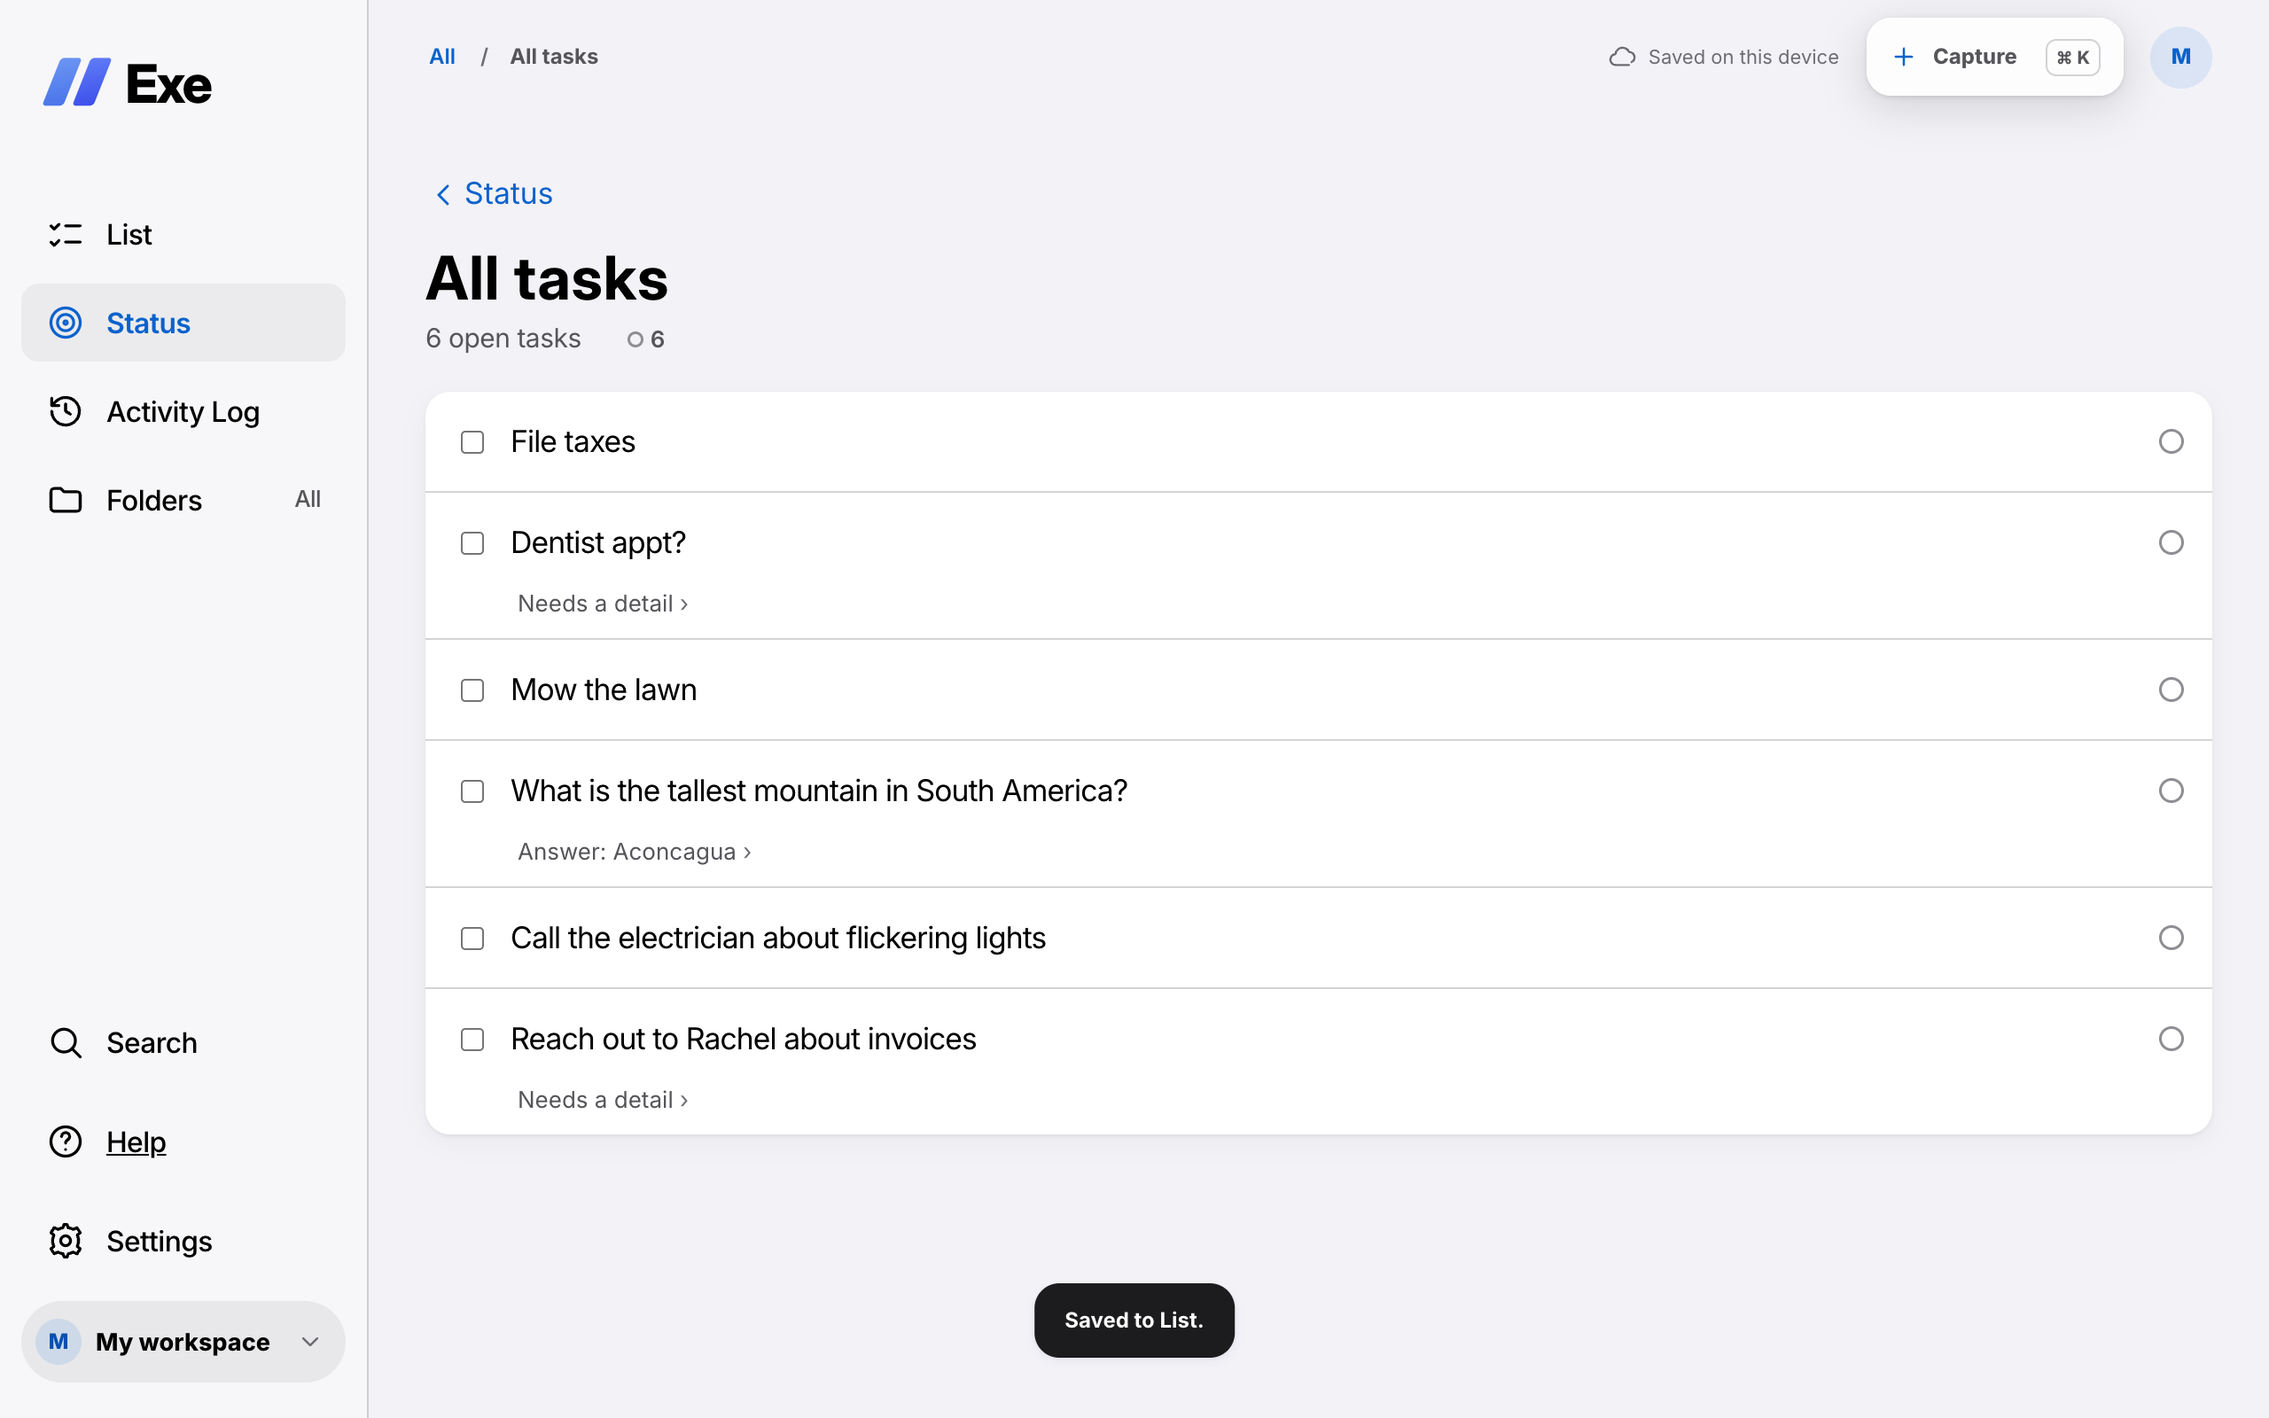
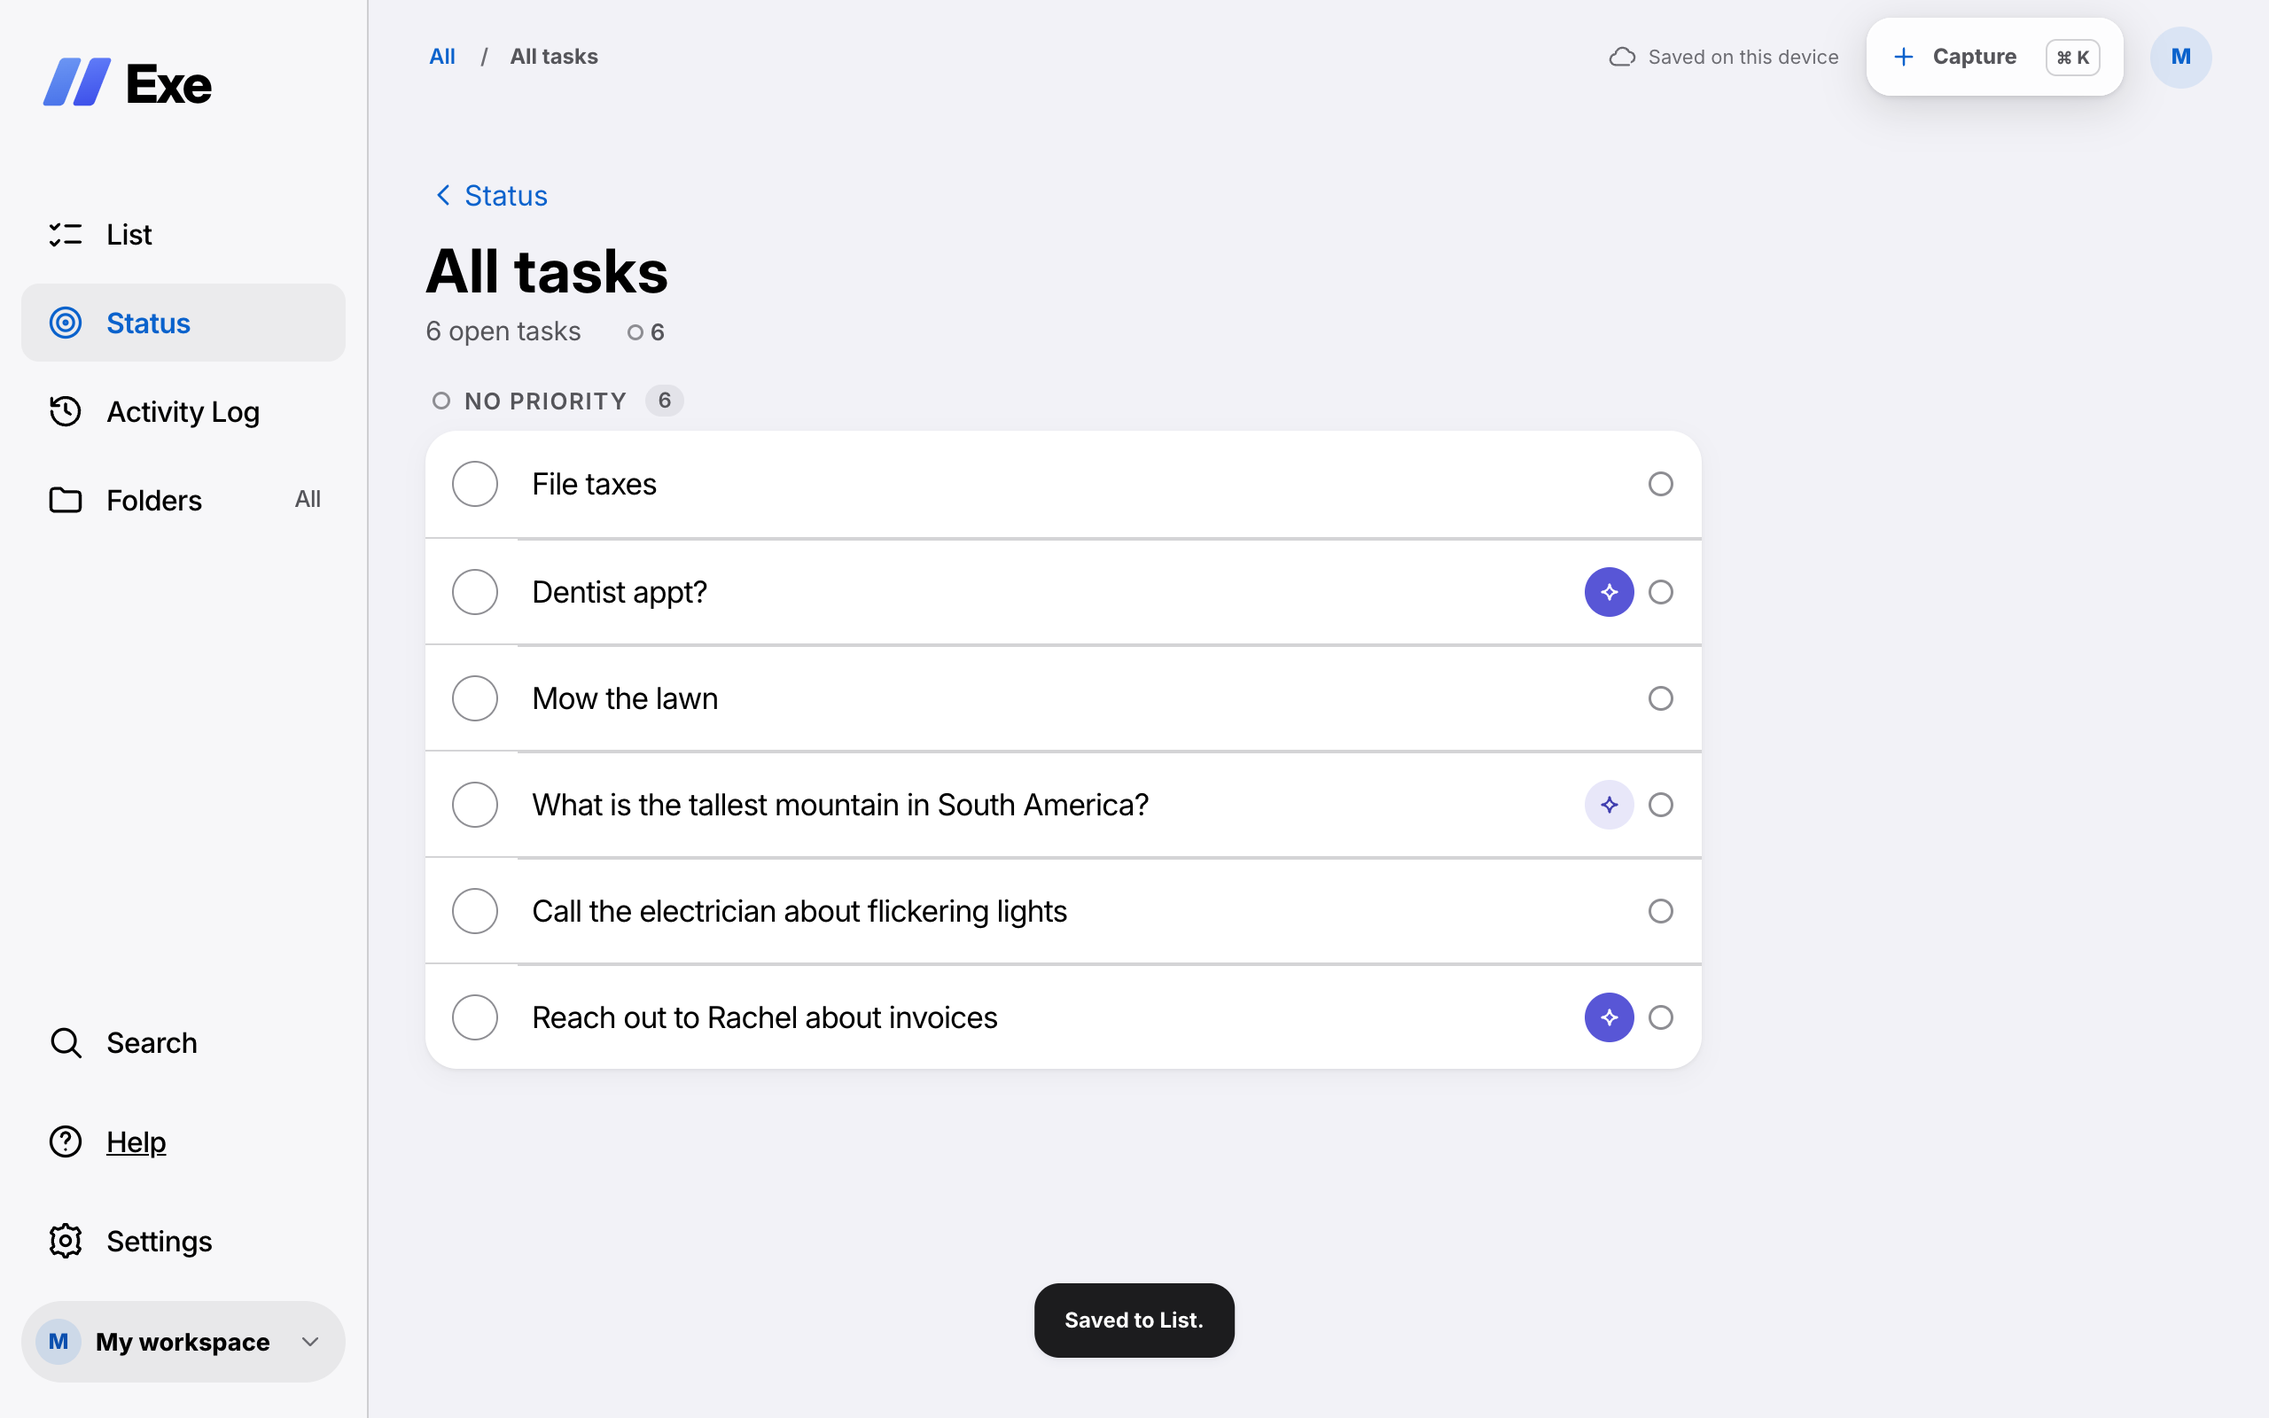
All tasks: sleek redesign (round checkboxes, priority sections, AI mark), 720px width on desktop

diff --git a/web/screens/TaskScreen.tsx b/web/screens/TaskScreen.tsx
@@ -10,21 +10,21 @@ import { PriorityCounts, PriorityDot } from '../ui/PriorityDot';
 
 const RANK: Record<string, number> = { high: 0, medium: 1, low: 2 };
 
-/** One task: its checkbox, its text (tap to open the assistant for it), its priority dot, and at most one quiet line when there is a real result. */
+/** One task: a round checkbox, its text (tap to open the assistant for it), a small colored mark when the AI has interacted with it, and its priority dot. */
 function TaskRow({ t, labels, toggle }: { t: MissionTask; labels: boolean; toggle: (t: MissionTask, on: boolean) => void }) {
   const { openEntry } = useApp();
   const st = useEntryState(t.captureId ?? '', t.text), line = t.captureId ? statusLine(st) : null, open = () => t.captureId && openEntry(t.captureId);
   return (
     <li className={`t-row ${t.done ? 'is-complete' : ''}`}>
-      <div className="t-line">
-        <input type="checkbox" checked={t.done} aria-label={`${t.done ? 'Reopen' : 'Complete'} ${t.text}`} onChange={e => toggle(t, e.target.checked)} />
-        {t.captureId ? <button type="button" className="t-text" onClick={open} aria-label={`Open ${t.text}`}>{t.text}</button> : <span className="t-text">{t.text}</span>}
-        {labels && t.captureId && <PriorityDot captureId={t.captureId} level={t.level} fromAi={t.fromAi} why={t.why} text={t.text} />}
-      </div>
-      {line && <button type="button" className="t-status" onClick={open}>{line}</button>}
+      <label className="t-check"><input type="checkbox" checked={t.done} aria-label={`${t.done ? 'Reopen' : 'Complete'} ${t.text}`} onChange={e => toggle(t, e.target.checked)} /></label>
+      {t.captureId ? <button type="button" className="t-text" onClick={open} aria-label={`Open ${t.text}`}>{t.text}</button> : <span className="t-text">{t.text}</span>}
+      {line && <button type="button" className={`ai-mark ${st?.question ? 'ask' : ''}`} onClick={open} aria-label={`AI: ${line}. Open details`} title={line}><Icon name="sparkles" /></button>}
+      {labels && t.captureId && <PriorityDot captureId={t.captureId} level={t.level} fromAi={t.fromAi} why={t.why} text={t.text} />}
     </li>
   );
 }
+
+const SECTIONS: { key: 'high' | 'medium' | 'low' | 'none'; label: string }[] = [{ key: 'high', label: 'High priority' }, { key: 'medium', label: 'Medium' }, { key: 'low', label: 'Low' }, { key: 'none', label: 'No priority' }];
 
 /** Every task, or one group's tasks, with the AI's help under each (email drafts, sources, answers). Used for "Show all" and for a group. */
 export function TaskScreen({ groupId }: { groupId?: string }) {
@@ -38,7 +38,7 @@ export function TaskScreen({ groupId }: { groupId?: string }) {
   const toggle = (t: MissionTask, on: boolean) => api.run((w, cx) => (t.kind === 'task' ? setTaskDone(w, cx, t.id, on) : setCaptureDone(w, cx, t.id, on)));
   const title = groupId ? (g?.name ?? 'Group not found') : 'All tasks';
   return (
-    <>
+    <div className="t-page">
       <MobileTopline />
       <button type="button" className="back-link" onClick={() => go('focus')}><Icon name="chevron-left" /> Status</button>
       <div className="mission-heading"><h1>{title}</h1><p className="mission-sub">{groupId && !g ? 'This group no longer exists.' : <>{c.total} open {c.total === 1 ? 'task' : 'tasks'}{labels && c.total > 0 && <PriorityCounts {...c} />}</>}</p></div>
@@ -46,8 +46,12 @@ export function TaskScreen({ groupId }: { groupId?: string }) {
         {g.kind === 'suggested' && <button className="primary-button" onClick={() => api.run((w, cx) => groupCaptures(w, cx, { ids: g.captureIds, name: g.name, deps: assistState.deps.filter(d => g.captureIds.includes(d.before) && g.captureIds.includes(d.after)) }))}>Group these</button>}
       </div>}
       <AssistBanner a={assistState} onSettings={() => modal({ kind: 'settings' })} hasAi />
-      <ul className="t-list">{tasks.map(t => <TaskRow key={t.key} t={t} labels={labels} toggle={toggle} />)}
-        {!tasks.length && <li className="small-note">Nothing here.</li>}</ul>
-    </>
+      {labels ? SECTIONS.map(sec => { const rows = tasks.filter(t => !t.done && (t.level ?? 'none') === sec.key); return rows.length ? (
+        <section key={sec.key} className="t-sec" aria-label={sec.label}><h2><span className={`dotc prio-${sec.key}`} aria-hidden="true" />{sec.label}<span className="t-n">{rows.length}</span></h2>
+          <ul className="t-list">{rows.map(t => <TaskRow key={t.key} t={t} labels={labels} toggle={toggle} />)}</ul></section>) : null; })
+        : (tasks.some(t => !t.done) && <section className="t-sec"><ul className="t-list">{tasks.filter(t => !t.done).map(t => <TaskRow key={t.key} t={t} labels={labels} toggle={toggle} />)}</ul></section>)}
+      {!tasks.some(t => !t.done) && <p className="small-note">{tasks.length ? 'Everything here is done.' : 'Nothing here.'}</p>}
+      {tasks.some(t => t.done) && <details className="t-done"><summary>Done ({tasks.filter(t => t.done).length})</summary><ul className="t-list">{tasks.filter(t => t.done).map(t => <TaskRow key={t.key} t={t} labels={labels} toggle={toggle} />)}</ul></details>}
+    </div>
   );
 }

diff --git a/exe-ui.css b/exe-ui.css
@@ -1189,14 +1189,29 @@ body::before {
 .tone-high { color: #c4231a; font-weight: 600; } .tone-medium { color: #a85a00; font-weight: 600; } .tone-low { color: #8a6d00; font-weight: 600; } .tone-fail { color: #c4231a; }
 :root[data-theme="dark"] .tone-high { color: #ff8a82; } :root[data-theme="dark"] .tone-medium { color: #ffbf5e; } :root[data-theme="dark"] .tone-low { color: #ffe066; } :root[data-theme="dark"] .tone-fail { color: #ff8a82; }
 
-/* ---------- 21. Assistant: compact task rows and the per-entry assistant (assistant spec) ---------- */
-.t-line { display: flex; align-items: center; gap: 12px; min-height: 52px; padding: 6px 0; }
-.t-line input[type="checkbox"] { flex: none; }
-.t-text { flex: 1; min-width: 0; padding: 8px 0; border: 0; background: none; font: inherit; font-size: 17px; line-height: 22px; letter-spacing: -.43px; text-align: left; color: var(--ink); cursor: pointer; min-height: 44px; }
+/* ---------- 21. All tasks / group screens (sleek) and the per-entry assistant ---------- */
+.t-sec { margin: 0 0 22px; }
+.t-sec h2 { display: flex; align-items: center; gap: 8px; margin: 0 0 8px 4px; font-size: 13px; line-height: 18px; font-weight: 600; letter-spacing: .06em; text-transform: uppercase; color: var(--secondary); }
+.t-sec .dotc { width: 10px; height: 10px; }
+.t-n { margin-left: 2px; padding: 0 7px; border-radius: 999px; background: var(--chip-bg); font-size: 12px; letter-spacing: 0; color: var(--secondary); }
+.t-list { list-style: none; margin: 0; padding: 0; background: var(--glass-card); border-radius: 18px; box-shadow: var(--glass-shadow); overflow: hidden; }
+.t-row { position: relative; display: flex; align-items: center; gap: 4px; min-height: 60px; padding: 0 14px 0 4px; }
+.t-row + .t-row::before { content: ""; position: absolute; top: 0; left: 52px; right: 0; height: 1px; background: var(--edge); }
+.t-check { display: grid; place-items: center; flex: none; width: 48px; height: 48px; cursor: pointer; }
+.t-check input { appearance: none; -webkit-appearance: none; width: 26px; height: 26px; margin: 0; border: 1.6px solid var(--control-border); border-radius: 50%; background: transparent; position: relative; cursor: pointer; transition: background .15s, border-color .15s; }
+.t-check input:checked { background: var(--exe-accent); border-color: var(--exe-accent); }
+.t-check input:checked::after { content: ""; position: absolute; left: 8px; top: 3.5px; width: 6px; height: 11.5px; border: solid #fff; border-width: 0 2.4px 2.4px 0; transform: rotate(45deg); }
+.t-check input:focus-visible { outline: 2px solid var(--focus-edge); outline-offset: 3px; }
+.t-text { flex: 1; min-width: 0; padding: 12px 6px 12px 4px; border: 0; background: none; font: inherit; font-size: 17px; line-height: 22px; letter-spacing: -.43px; text-align: left; color: var(--ink); cursor: pointer; }
 .t-row.is-complete .t-text { color: var(--muted); text-decoration: line-through; }
-.t-line .prio-dot { margin-left: 0; }
-.t-status { display: block; margin: -6px 0 8px 36px; padding: 0; min-height: 24px; border: 0; background: none; font: inherit; font-size: 13px; line-height: 18px; color: var(--secondary); text-align: left; cursor: pointer; }
-.t-status::after { content: " ›"; color: var(--muted); }
+.t-row .prio-dot { margin: 0 2px 0 4px; }
+.ai-mark { position: relative; flex: none; display: grid; place-items: center; width: 28px; height: 28px; border: 0; border-radius: 50%; background: color-mix(in srgb, var(--exe-badge) 14%, transparent); color: #3f3dae; cursor: pointer; }
+.ai-mark svg { width: 16px; height: 16px; }
+.ai-mark::after { content: ""; position: absolute; inset: -8px; }
+.ai-mark.ask { background: var(--exe-badge); color: #fff; }
+:root[data-theme="dark"] .ai-mark:not(.ask) { color: #a5a3ff; }
+.t-done { margin: 0 0 22px; } .t-done summary { min-height: 44px; display: flex; align-items: center; padding-left: 4px; font-size: 15px; font-weight: 500; color: var(--secondary); cursor: pointer; }
+.back-link { margin-bottom: 0; font-size: 16px; }
 .ax-layer { position: fixed; inset: 0; z-index: 140; }
 .ax-layer.wide { inset: 0 0 0 auto; width: 440px; pointer-events: none; }
 .ax-scrim { position: absolute; inset: 0; background: var(--scrim); }
@@ -1243,3 +1258,5 @@ body::before {
 .ax-send svg { width: 20px; height: 20px; }
 body.assistant-open .mobile-navigation { display: none; }
 .sr-only { position: absolute; width: 1px; height: 1px; overflow: hidden; clip: rect(0 0 0 0); white-space: nowrap; }
+
+.t-page { max-width: 720px; }

diff --git a/tests/assistant_phase1.py b/tests/assistant_phase1.py
@@ -1,7 +1,7 @@
 """Assistant Phase 1 (assistant spec): compact status lines on task rows, the per-entry assistant panel (full-height on phones), one question at a time,
 drafts that refine in place with versions kept, adaptive actions that fit at 320px, quiet when there is nothing to add, nothing 'sent'.
 Uses the labeled DEMO assistant (?local=1&fakeai=1). Dev server :5173, EXE_CHROMIUM, AXE_PATH."""
-import os
+import os, re
 from playwright.sync_api import sync_playwright, expect
 RUN = "async()=>await axe.run(document,{runOnly:{type:'tag',values:['wcag2a','wcag2aa','wcag21aa']}})"
 TASKS = ['Reach out to Rachel about invoices', 'Call the electrician about flickering lights', 'What is the tallest mountain in South America?', 'Mow the lawn', 'Dentist appt?', 'File taxes']
@@ -12,12 +12,12 @@ with sync_playwright() as p:
         pg.goto('http://127.0.0.1:5173/?local=1&fakeai=1'); pg.evaluate('localStorage.clear(); sessionStorage.clear()'); pg.reload()
         box = pg.get_by_label('Add a task')
         for t in TASKS: box.fill(t); box.press('Enter')
-        assert pg.locator('.t-status, .assist-help').count() == 0                                                 # the List carries no AI decoration
+        assert pg.locator('.ai-mark, .t-status, .assist-help').count() == 0                                                 # the List carries no AI decoration
         pg.evaluate("location.hash = '#/tasks'"); pg.get_by_role('heading', name='All tasks').wait_for()
         row = lambda s: pg.locator('.t-row', has_text=s)
-        expect(row('Rachel').locator('.t-status')).to_have_text('Needs a detail'); expect(row('tallest mountain').locator('.t-status')).to_have_text('Answer: Aconcagua')
-        expect(row('Dentist').locator('.t-status')).to_have_text('Needs a detail')
-        assert row('Mow the lawn').locator('.t-status').count() == 0 and row('electrician').locator('.t-status').count() == 0     # no filler status
+        expect(row('Rachel').locator('.ai-mark')).to_have_attribute('aria-label', 'AI: Needs a detail. Open details'); expect(row('tallest mountain').locator('.ai-mark')).to_have_attribute('aria-label', 'AI: Answer: Aconcagua. Open details')
+        expect(row('Dentist').locator('.ai-mark')).to_have_class(re.compile('ask'))
+        assert row('Mow the lawn').locator('.ai-mark').count() == 0 and row('electrician').locator('.ai-mark').count() == 0     # no filler status
         assert pg.evaluate('document.documentElement.scrollWidth <= innerWidth')
         # open Rachel: one question, no autofocus, dock hidden
         row('Rachel').get_by_role('button', name='Open Reach out').click(); dlg = pg.get_by_role('dialog'); expect(dlg).to_be_visible()
@@ -43,7 +43,7 @@ with sync_playwright() as p:
         pg.add_script_tag(path=os.environ['AXE_PATH']); v = pg.evaluate(RUN)['violations']; assert not v, [(x['id'], [n['target'] for n in x['nodes']]) for x in v]
         dlg.get_by_role('button', name='Close').click(); expect(pg.get_by_role('dialog')).to_have_count(0)
         # it persists after a reload (device-only demo storage)
-        pg.reload(); pg.evaluate("location.hash = '#/tasks'"); expect(row('Rachel').locator('.t-status')).to_have_text('Text ready')
+        pg.reload(); pg.evaluate("location.hash = '#/tasks'"); expect(row('Rachel').locator('.ai-mark')).to_have_attribute('aria-label', 'AI: Text ready. Open details')
         # electrician: the channel is chosen (call), so no email
         row('electrician').get_by_role('button', name='Open Call').click(); dlg = pg.get_by_role('dialog')
         expect(dlg.get_by_role('button', name='Prepare call notes')).to_be_visible(); assert 'email' not in dlg.inner_text().lower(); dlg.get_by_role('button', name='Close').click()

diff --git a/tests/live_help.py b/tests/live_help.py
@@ -15,8 +15,8 @@ with sync_playwright() as p:
         pg.wait_for_timeout(4500)
         assert pg.locator('.assist-help, .assist-card, .assist-note').count() == 0                         # no AI help on the List
         pg.evaluate("location.hash = '#/tasks'"); expect(pg.get_by_role('heading', name='All tasks')).to_be_visible()
-        expect(pg.locator('.t-row', has_text='Email Rachel').locator('.t-status')).to_have_text('Email draft ready', timeout=9000)          # one quiet line, not a dropdown
-        expect(pg.locator('.t-row', has_text='capital of Australia').locator('.t-status')).to_have_text('Answer: Canberra'); assert pg.locator('.assist-help').count() == 0
+        expect(pg.locator('.t-row', has_text='Email Rachel').locator('.ai-mark')).to_have_attribute('aria-label', 'AI: Email draft ready. Open details', timeout=9000)          # one quiet line, not a dropdown
+        expect(pg.locator('.t-row', has_text='capital of Australia').locator('.ai-mark')).to_have_attribute('aria-label', 'AI: Answer: Canberra. Open details'); assert pg.locator('.assist-help').count() == 0
         pg.add_script_tag(path=os.environ['AXE_PATH']); v = pg.evaluate(RUN)['violations']; assert not v, [(x['id'], [n['target'] for n in x['nodes']]) for x in v]
         pg.evaluate("location.hash = '#/mission'"); pg.locator('.g-head', has_text='Hiring').click()          # a group the AI named
         expect(pg.get_by_role('heading', name='Hiring')).to_be_visible(); expect(pg.locator('.t-row')).to_have_count(2)
